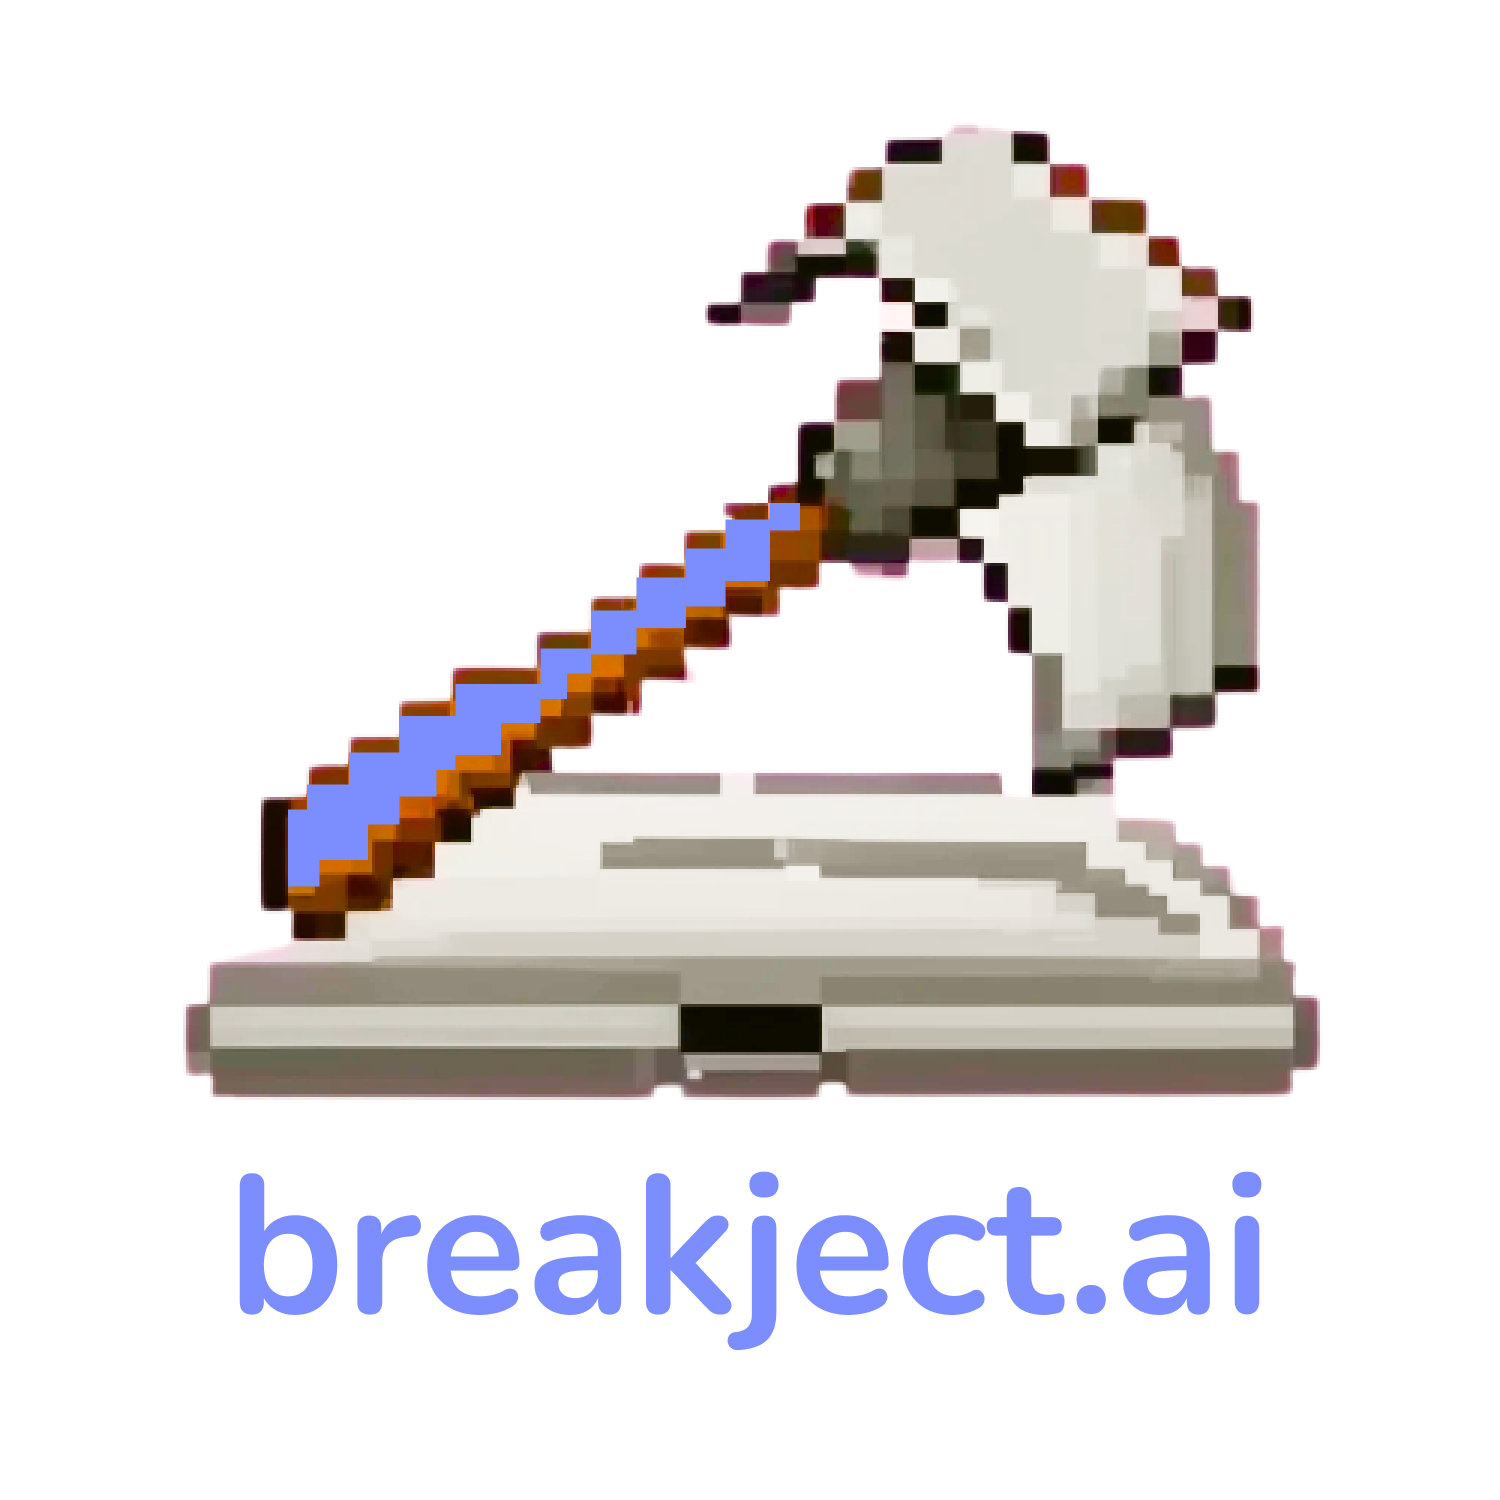
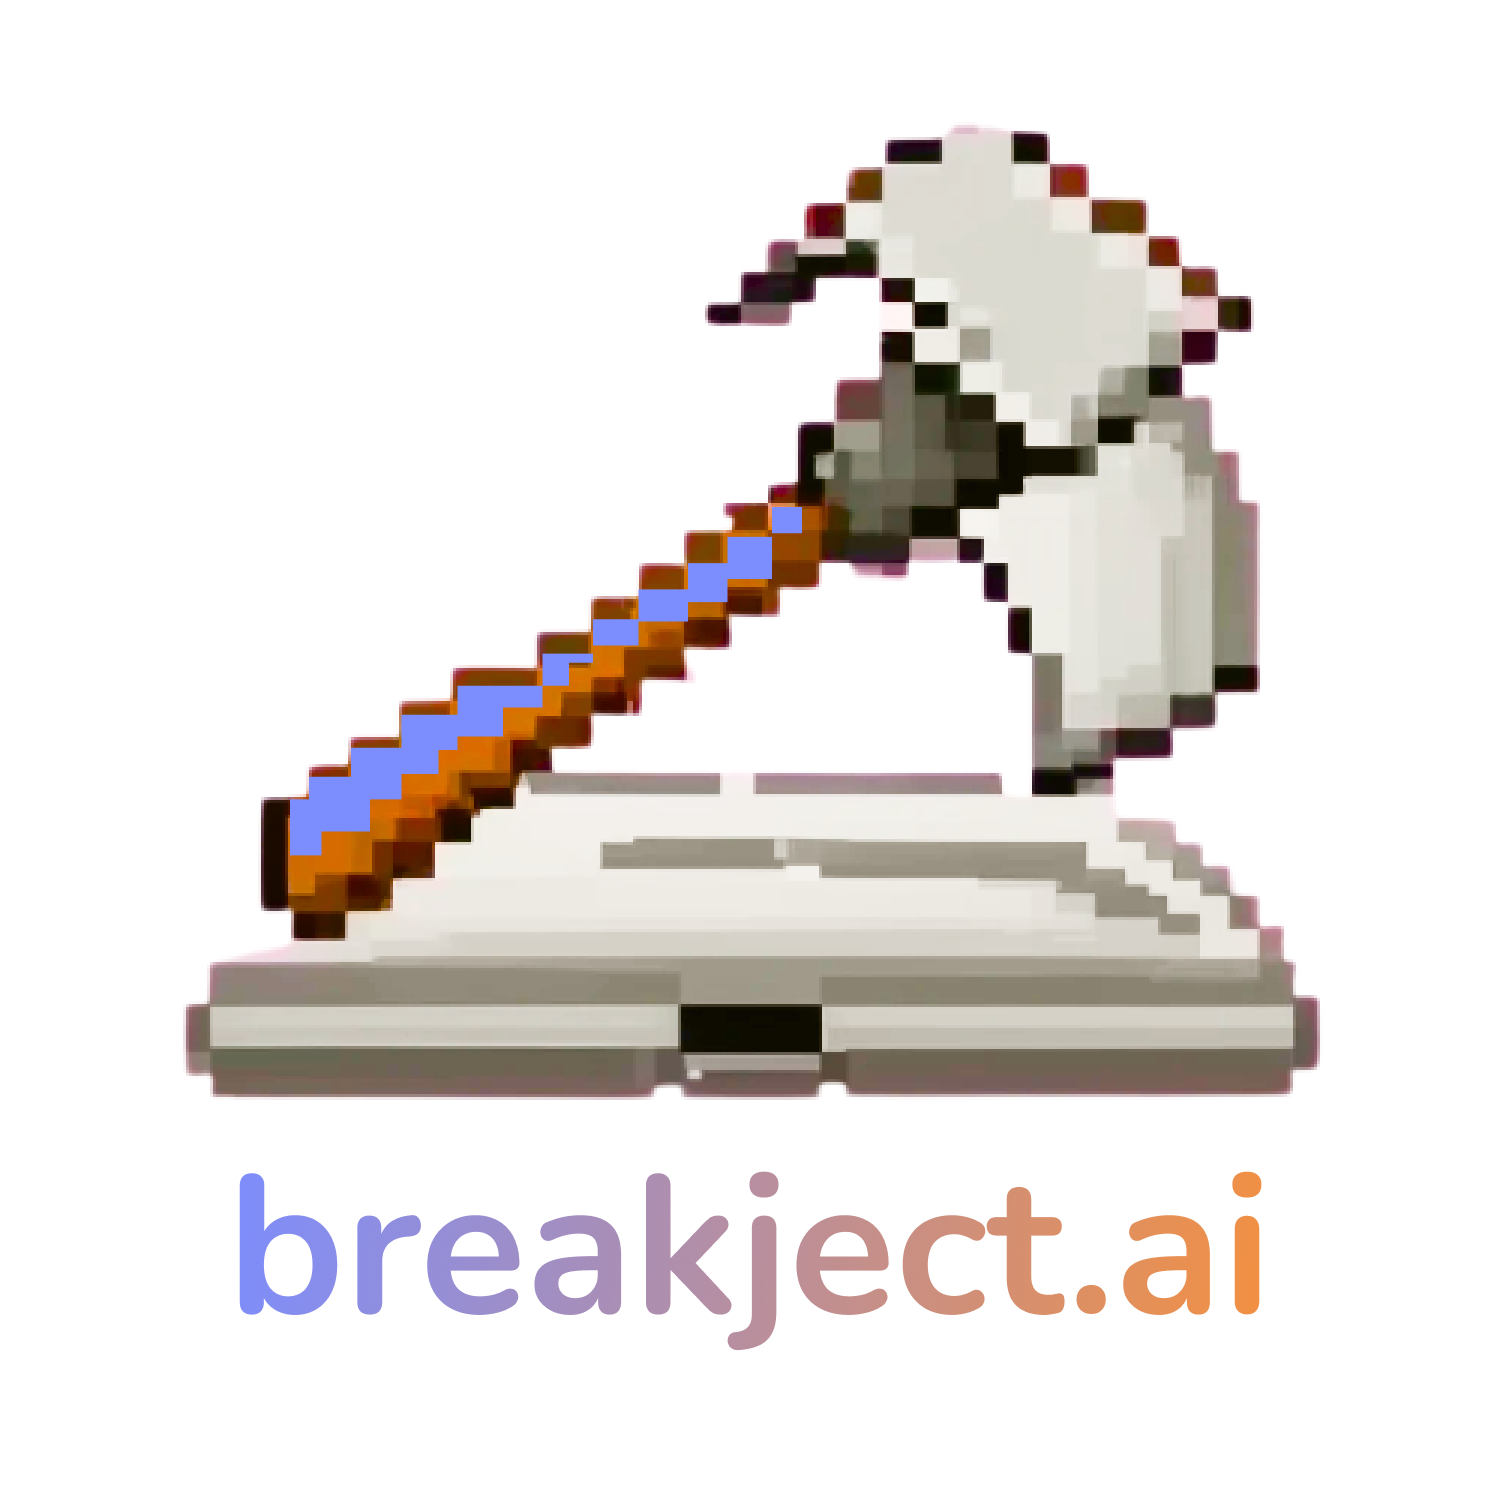
add task Upload.jsx; b element index.css and Home.jsx

diff --git a/task-app/src/components/Upload.jsx b/task-app/src/components/Upload.jsx
@@ -127,7 +127,18 @@ const Upload = () => {
             console.error(error);
             // Handle error case
         }
+    };
 
+    // AddTask
+    const handleAddTask = () => {
+        const newTask = {
+            Task: "",
+            Description: "",
+            Status: "Not Started",
+            Deadline: new Date(),
+            isEditing: true,
+        };
+        setTableData([...tableData, newTask]);
     };
 
     return (
@@ -171,6 +182,7 @@ const Upload = () => {
                                             <td>
                                                 {item.isEditing ? (
                                                     <TextField
+                                                        required
                                                         type="text"
                                                         value={item.Task}
                                                         fullWidth
@@ -186,6 +198,7 @@ const Upload = () => {
                                             <td>
                                                 {item.isEditing ? (
                                                     <TextField
+                                                        required
                                                         type="text"
                                                         value={item.Description}
                                                         fullWidth
@@ -253,6 +266,8 @@ const Upload = () => {
                                     ))}
                                 </tbody>
                             </table>
+
+                            <button onClick={handleAddTask}>Add Task</button>
                             <button onClick={handleAddToCalendar}>Add to Calendar</button>
                             <button onClick={closeModal}>Close</button>
                         </div>

diff --git a/task-app/src/pages/Home.jsx b/task-app/src/pages/Home.jsx
@@ -41,7 +41,7 @@ const Home = () => {
       />
       <h1>Welcome to breakject.ai!</h1>
       <p>
-        Break down your projects and assignments into smaller tasks and
+        An AI-integration tool that <b>breaks down</b> your <b>projects</b> and assignments into smaller tasks and
         deadlines for enhanced productivity.
       </p>
 

diff --git a/task-app/src/index.css b/task-app/src/index.css
@@ -101,3 +101,9 @@ th {
 .auth-btn {
   margin: 20px auto;
 }
+
+b {
+  background-image: linear-gradient(to right, #7C8DFD, #F39041);
+  -webkit-background-clip: text;
+  -webkit-text-fill-color: transparent;
+}
